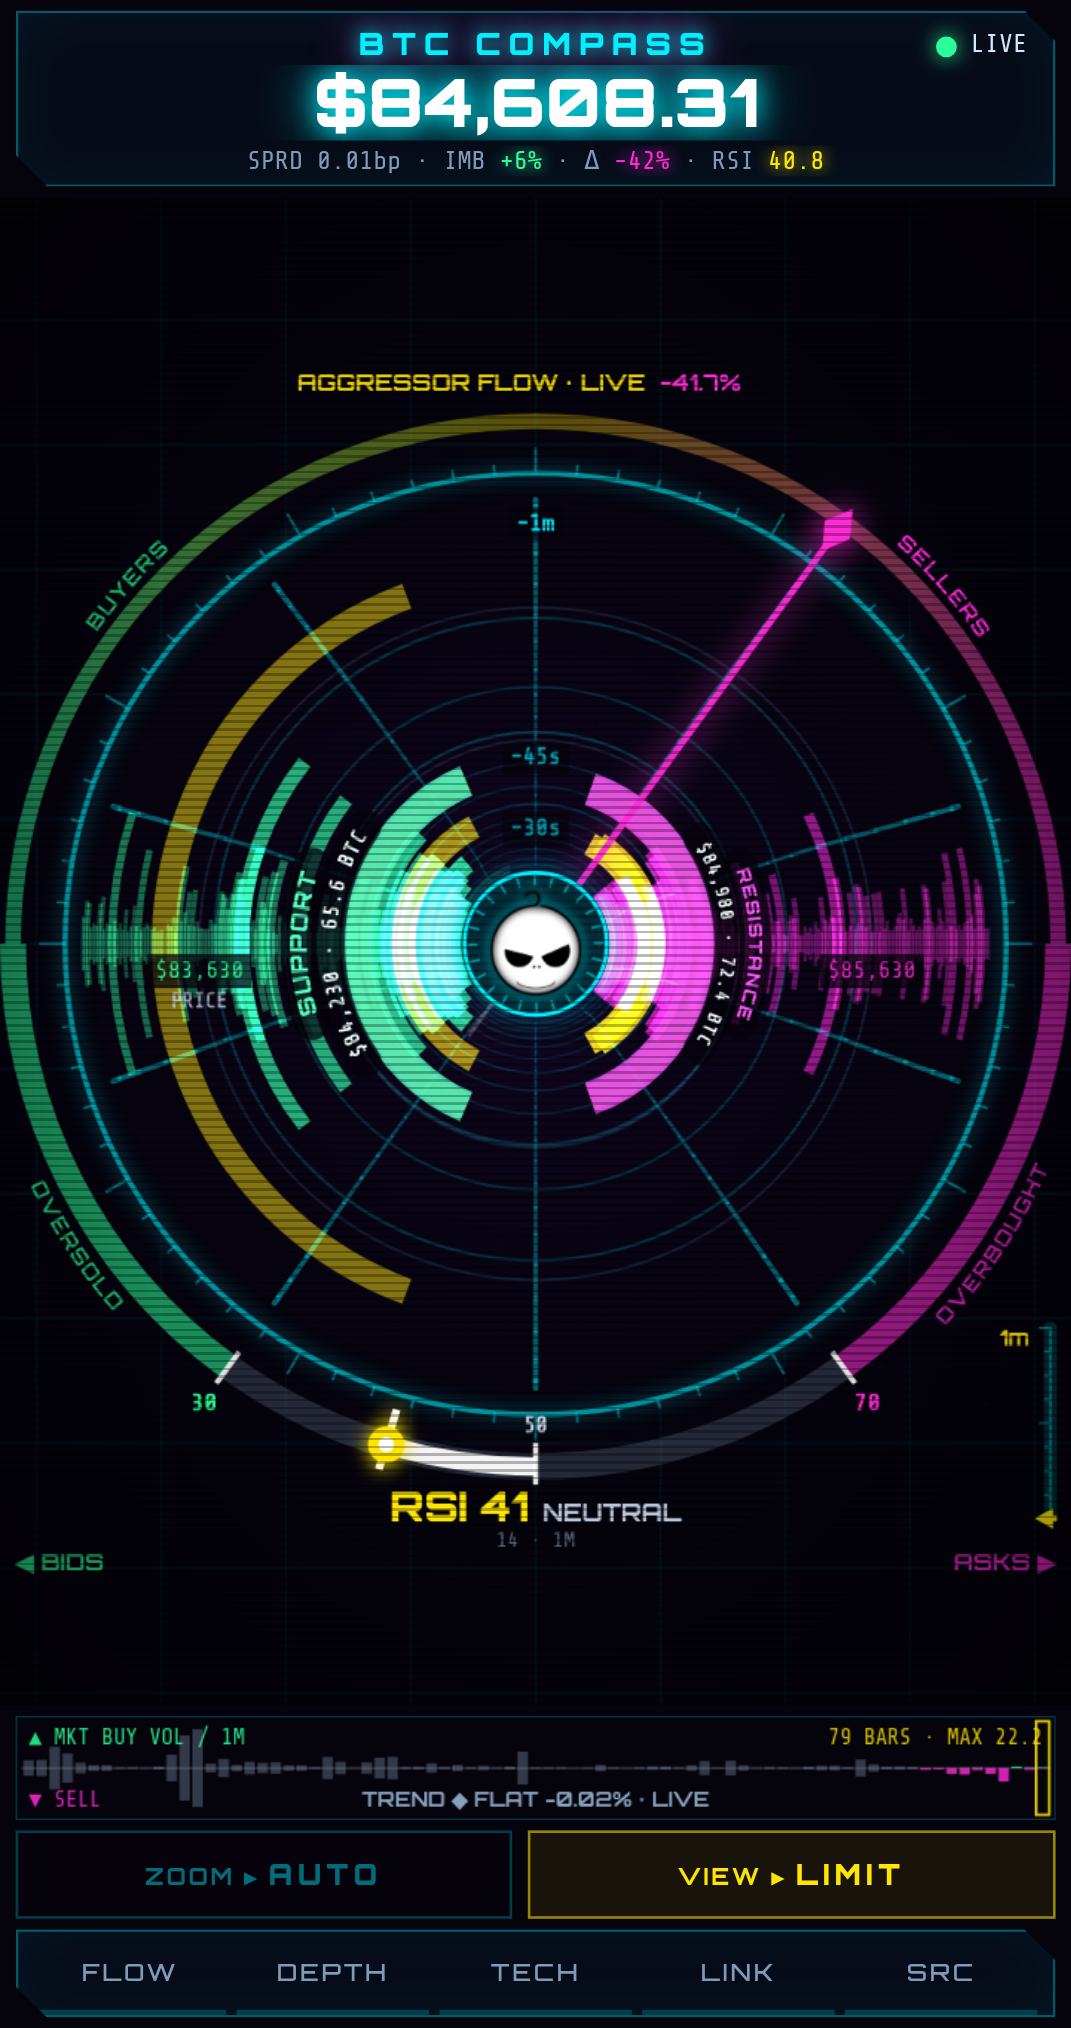
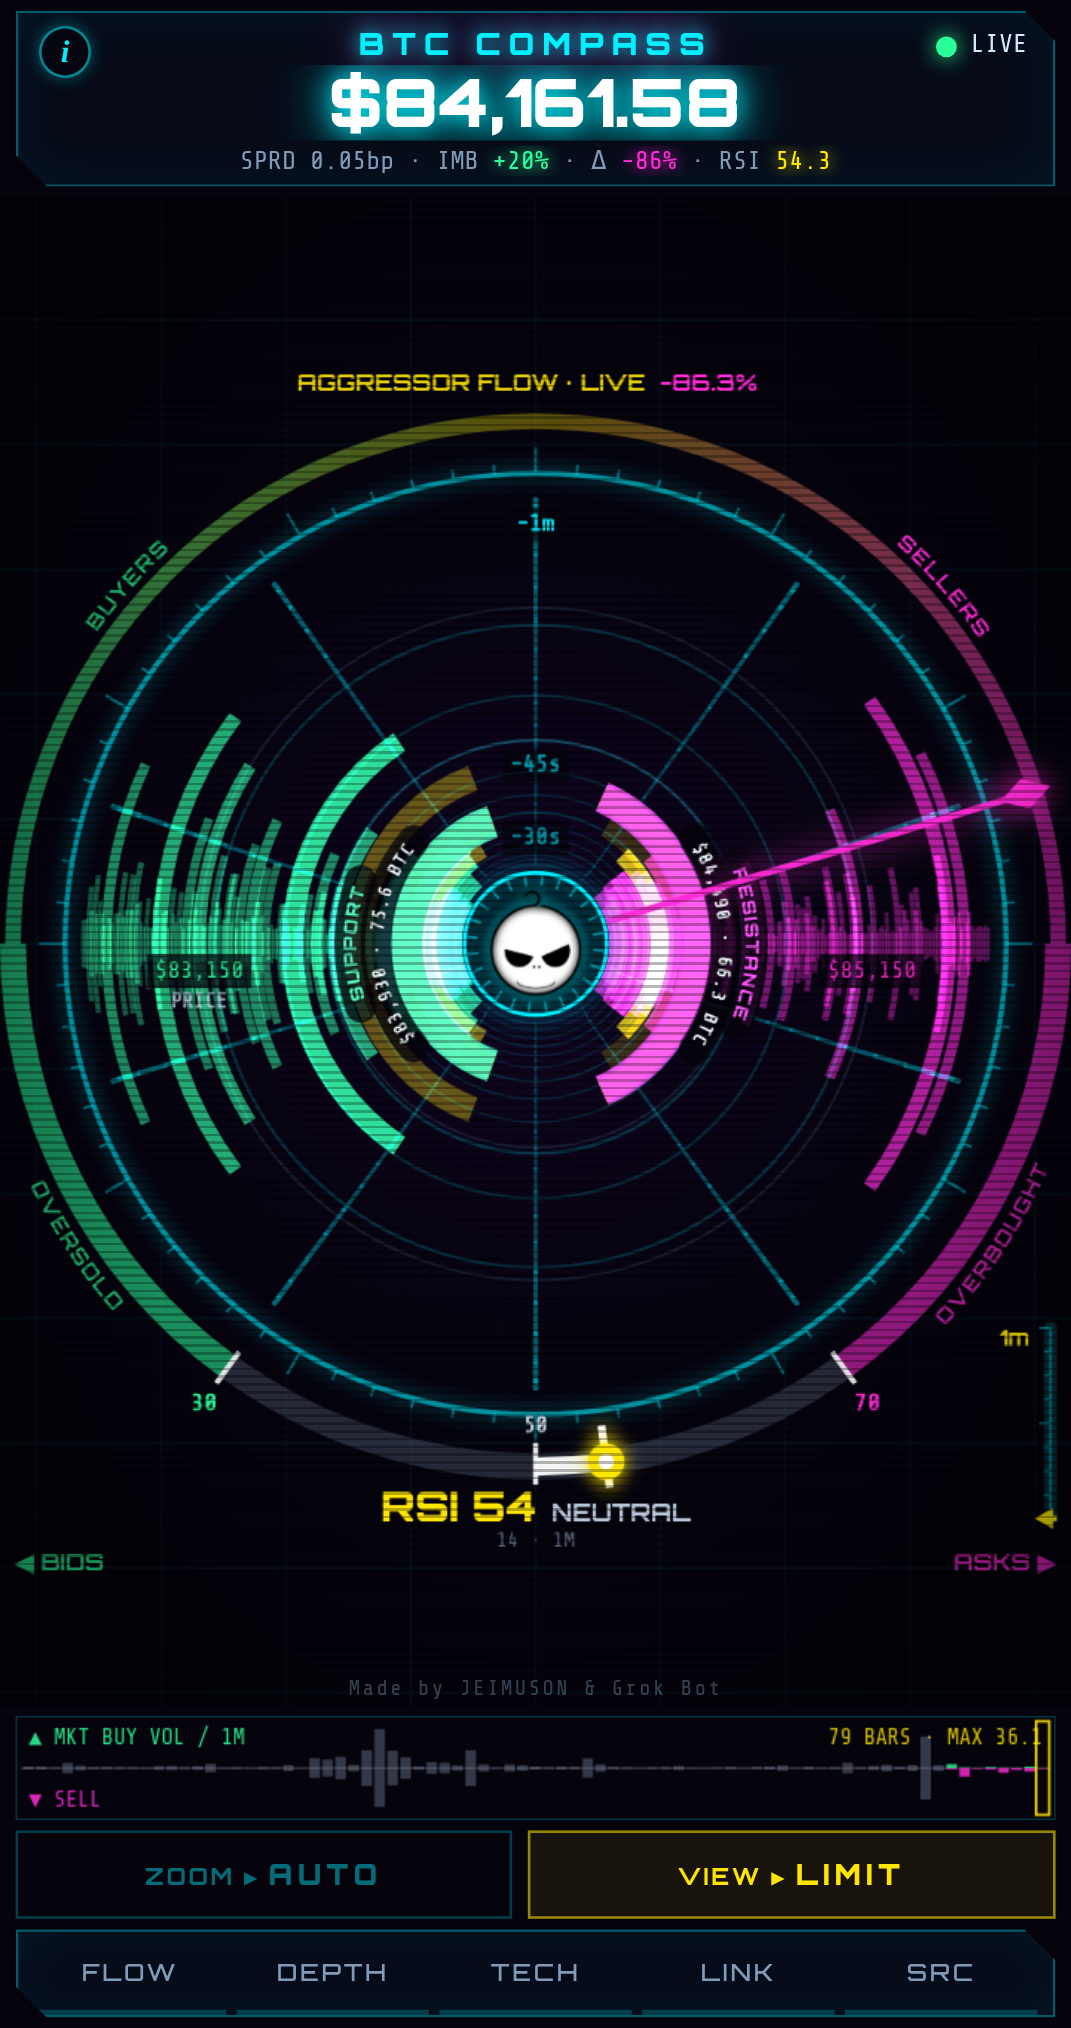
Info panel + credit; MARKET AUTO retune: 45s baseline, 60s dead-slow, price-aware tightening (build 20261002-1520)

diff --git a/index.html b/index.html
@@ -3,7 +3,7 @@
 <head>
 <meta charset="utf-8">
 <meta http-equiv="Cache-Control" content="no-cache, no-store, must-revalidate"><meta http-equiv="Pragma" content="no-cache"><meta http-equiv="Expires" content="0">
-<script>window.OFC_BUILD='20261002-1424';(function(){try{if(!/^https?:/.test(location.protocol))return;fetch(location.pathname+'?_='+Date.now(),{cache:'no-store'}).then(r=>r.text()).then(t=>{const m=t.match(/OFC_BUILD='([^']+)'/);if(m&&m[1]!==window.OFC_BUILD&&sessionStorage.getItem('ofcB')!==m[1]){sessionStorage.setItem('ofcB',m[1]);location.replace(location.pathname+'?v='+m[1]+location.hash);}}).catch(()=>{});}catch(e){}})();</script>
+<script>window.OFC_BUILD='20261002-1520';(function(){try{if(!/^https?:/.test(location.protocol))return;fetch(location.pathname+'?_='+Date.now(),{cache:'no-store'}).then(r=>r.text()).then(t=>{const m=t.match(/OFC_BUILD='([^']+)'/);if(m&&m[1]!==window.OFC_BUILD&&sessionStorage.getItem('ofcB')!==m[1]){sessionStorage.setItem('ofcB',m[1]);location.replace(location.pathname+'?v='+m[1]+location.hash);}}).catch(()=>{});}catch(e){}})();</script>
 <meta name="viewport" content="width=device-width,initial-scale=1,viewport-fit=cover,user-scalable=no">
 <meta name="theme-color" content="#05030c">
 <meta name="color-scheme" content="dark">
@@ -133,14 +133,56 @@ body.hublogo #top .logo{display:none}   /* mobile: logo lives in the compass hub
  #pages h3{margin-right:0}
  .bar{margin:2px 0 3px}
 }
+#infoBtn{position:absolute;left:8px;top:5px;width:20px;height:20px;padding:0;border-radius:50%;background:rgba(5,3,12,.6);border:1px solid rgba(0,240,255,.55);color:var(--cy);font:italic 700 12px/18px Georgia,serif;text-align:center;cursor:pointer;z-index:2;box-shadow:0 0 6px rgba(0,240,255,.35)}
+#infoBtn:hover,#infoBtn:focus-visible{color:#fff;border-color:var(--yl);box-shadow:0 0 10px rgba(255,230,0,.5);outline:none}
+#info{display:none;position:fixed;inset:0;z-index:60;background:rgba(2,1,8,.72);align-items:center;justify-content:center;padding:calc(var(--st) + 12px) 12px calc(var(--sb) + 12px)}
+#info.on{display:flex}
+#infoBox{position:relative;width:min(560px,100%);max-height:100%;overflow-y:auto;-webkit-overflow-scrolling:touch;overscroll-behavior:contain;background:rgba(8,14,28,.97);padding:14px 16px 12px;font-size:13px;line-height:1.45;color:#cfe9ff;-webkit-user-select:text;user-select:text;touch-action:pan-y}
+#infoBox h2{font-family:Orbitron,sans-serif;font-size:12px;letter-spacing:3px;color:var(--cy);text-shadow:0 0 8px var(--cy);margin:0 40px 8px 0}
+#infoBox h3{font-size:10px;margin:10px 0 4px}
+#infoBox ul{list-style:none}
+#infoBox li{position:relative;padding-left:12px;margin:2px 0}
+#infoBox li:before{content:'›';position:absolute;left:0;color:var(--cy)}
+#infoBox b{color:#fff;font-weight:700}#infoBox b.gr{color:var(--gr)}#infoBox b.rd{color:var(--rd)}
+#infoX{position:absolute;top:8px;right:10px;width:34px;height:24px;background:transparent;border:1px solid rgba(0,240,255,.45);color:var(--cy);font-size:14px;cursor:pointer}
+.infoCred{font-family:Orbitron,sans-serif;font-size:10px;letter-spacing:2px;color:var(--cy);text-align:center;margin-top:12px;text-shadow:0 0 6px rgba(0,240,255,.6)}
+#credit{position:absolute;left:50%;bottom:2px;transform:translateX(-50%);z-index:9;pointer-events:none;white-space:nowrap;font-size:8px;letter-spacing:1px;color:rgba(160,200,230,.32)}
+@media (min-aspect-ratio:1/1){#credit{left:6px;transform:none;bottom:3px;font-size:9px}}
+.infoFoot{font-size:10px;color:#5f7a95;text-align:center;margin-top:10px}
+@media (min-aspect-ratio:1/1) and (min-width:900px) and (min-height:700px){#infoBox{font-size:15px;width:min(640px,100%);padding:20px 24px 16px}#infoBox h2{font-size:14px}#infoBox h3{font-size:12px}}
 #glitch{position:fixed;inset:0;z-index:7;pointer-events:none;opacity:0}
 </style>
 </head>
 <body>
+<div id="info" role="dialog" aria-modal="true" aria-labelledby="infoT"><div id="infoBox" class="panel">
+ <button id="infoX" aria-label="close">✕</button>
+ <h2 id="infoT">// WHAT YOU'RE SEEING</h2>
+ <h3>MARKET VIEW · LIVE TRADES</h3>
+ <ul><li>Every trade lands on a <b>spiral</b>: newest on the outer ring, older ones wind into the center.</li>
+ <li>One lap = the time window (15–60s, shown on the zoom bar).</li>
+ <li>Trail swings <b>out</b> = price up, <b>in</b> = price down.</li>
+ <li><b class="gr">Green</b> = buyers, <b class="rd">red</b> = sellers. Thicker trail = more volume.</li>
+ <li><b>Flares</b> mark the spots with the heaviest trading.</li></ul>
+ <h3>LIMIT VIEW · ORDER-BOOK WALLS</h3>
+ <ul><li>Arcs are <b>walls</b> of waiting orders: <b class="gr">buyers left</b>, <b class="rd">sellers right</b>.</li>
+ <li>Distance from the middle = distance from the current price.</li>
+ <li>Bigger, brighter arc = bigger wall.</li>
+ <li>New walls start at the center and drift outward over time. A wall that stays is <b>holding</b>; one that vanishes was <b>pulled or eaten</b>.</li>
+ <li><b class="gr">SUPPORT</b> / <b class="rd">RESISTANCE</b> = the strongest nearby wall on each side.</li></ul>
+ <h3>AUTO ZOOM</h3>
+ <ul><li><b>MARKET:</b> normal traffic shows ~45s, dead-slow up to 60s. Price moves tighten it; volume bursts snap to a 15s vortex.</li>
+ <li><b>LIMIT:</b> quiet = 15s; heavy trading zooms out to 1m so you see walls get hit.</li>
+ <li><b>AUTO off</b> = full zoom out; then zoom by pinch, wheel or the zoom bar.</li></ul>
+ <h3>ALSO</h3>
+ <ul><li><b>RSI arc</b> (bottom): momentum. Left = oversold, right = overbought.</li>
+ <li><b>SRC</b>: venues feeding the book. Pick ALL or one exchange.</li></ul>
+ <div class="infoCred">Made by JEIMUSON &amp; Grok Bot</div>
+ <div class="infoFoot">tap outside, ✕ or Esc to close</div>
+</div></div>
 <div id="app">
-<div id="colA"><div id="stage"><canvas id="cv"></canvas><div id="vig"></div><div id="scan"></div><canvas id="lcv"></canvas></div><canvas id="vcv"></canvas></div>
+<div id="colA"><div id="stage"><canvas id="cv"></canvas><div id="vig"></div><div id="scan"></div><canvas id="lcv"></canvas><div id="credit" aria-hidden="true">Made by JEIMUSON &amp; Grok Bot</div></div><canvas id="vcv"></canvas></div>
 <div id="colB">
-<div class="panel" id="top">
+<div class="panel" id="top"><button id="infoBtn" aria-label="what am I looking at?" title="what am I looking at?">i</button>
  <div class="l1"><img class="logo" src="logo-64.png" srcset="logo-64.png 1x, logo-128.png 2x, logo.png 3x" alt="" width="22" height="22"><div class="t1">BTC&nbsp;COMPASS</div><div class="conn" id="conn"><span class="dot" style="background:#555"></span>INIT</div></div>
  <div class="lp"><div class="big" id="mid">—</div></div>
  <div class="l2">SPRD <span id="spread">—</span> · IMB <span id="imb">—</span> · Δ <span id="dlt">—</span> · RSI <span id="rsiTop">—</span></div>
@@ -369,6 +411,10 @@ let burst={on:false,until:0,rel:0,r3:0,base:0,usd3:0};
 // LIMIT + AUTO (opposite of MARKET): quiet tape -> 15 s depth; heavier traffic vs the 60 s baseline -> deeper, toward 1 m; burst -> full 1 m.
 // rho = 3 s USD rate / 60 s baseline: rho<=1 -> 15 s, rho=2 -> 30 s, rho>=3 (=BURST_X) or burst -> 60 s (log scale). Deeper targets hold 5 s (burst: +6.5 s burst hold) before easing back in.
 let LT={w:15,hold:0,rho:0};
+// MARKET + AUTO window: volume sets the baseline (normal -> 45 s, dead-slow -> 60 s); price moves tighten it toward 15 s; a volume burst snaps to 15 s.
+//  q  = 60 s USD rate / 10 min EMA of that rate:   q>=0.6 -> 45 s,  q<=0.25 -> 60 s (log-interp between)
+//  z  = max |mid move| over last 10 s / 5 min EMA of that same measure (typical 10 s move):  z<=1.5 -> no change, z>=4 -> 15 s (log-interp)
+let MT={w:45,hold:0,q:1,z:0,vb:0,sg:0,t0:0,mp:[]};
 setInterval(()=>{if(!trades.length)return;const n=Date.now();let u3=0,u60=0,old=n;
   for(let i=trades.length-1;i>=0;i--){const t=trades[i],ag=n-t.t;if(ag>63000)break;const u=t.qty*t.px;if(ag<=3000)u3+=u;else u60+=u;old=Math.min(old,t.t);}
   const bspan=Math.min(60,(n-old)/1000-3), base=bspan>=20?u60/bspan:0, r3=u3/3;
@@ -376,6 +422,16 @@ setInterval(()=>{if(!trades.length)return;const n=Date.now();let u3=0,u60=0,old=
   if(base>0&&r3>=BURST_X*base&&u3>=BURST_MIN_USD)burst.until=n+BURST_HOLD;
   {const rho=base>0&&u3>=BURST_MIN_USD*0.2?r3/base:0,k=Math.max(0,Math.min(1,(rho-1)/(BURST_X-1)));LT.rho=rho;
     const wt=n<burst.until?LWMAX:WMIN*Math.pow(LWMAX/WMIN,k);if(wt>=LT.w){LT.w=wt;LT.hold=n+5000;}else if(n>LT.hold)LT.w=wt;}
+  {if(!MT.t0)MT.t0=n;const el=(n-MT.t0)/1000,cl=x=>Math.max(0,Math.min(1,x));
+    if(mid){MT.mp.push([n,mid]);while(MT.mp.length&&n-MT.mp[0][0]>10000)MT.mp.shift();}
+    let mv=0;for(const e of MT.mp)mv=Math.max(mv,Math.abs(mid-e[1]));
+    const span10=MT.mp.length?(n-MT.mp[0][0])/1000:0, fl=(mid||1)*0.00002;
+    if(span10>=8){const a=1-Math.exp(-0.25/Math.min(300,10+el));MT.sg=MT.sg?MT.sg+(Math.max(mv,fl)-MT.sg)*a:Math.max(mv,fl);}
+    if(base>0){const a=1-Math.exp(-0.25/Math.min(600,20+el));MT.vb=MT.vb?MT.vb+(base-MT.vb)*a:base;}
+    MT.q=bspan>=20&&MT.vb>0?base/MT.vb:1; MT.z=MT.sg>0&&span10>=8?mv/MT.sg:0;
+    const kv=cl((MT.q-0.25)/0.35), wv=MWMAX*Math.pow(45/MWMAX,kv), kp=cl((MT.z-1.5)/2.5);
+    const wt=n<burst.until?BURST_WIN:wv*Math.pow(WMIN/wv,kp);
+    if(wt<=MT.w){MT.w=wt;MT.hold=n+3000;}else if(n>MT.hold)MT.w=wt;}
   const was=burst.on;burst.on=n<burst.until;if(was&&!burst.on)burst.rel=n;},250);
 
 // ---------------- trades ----------------
@@ -1508,9 +1564,7 @@ function frame(){
   if(mid&&sortedB.length>5&&sortedA.length>5){
     {const db=mid-sortedB[Math.floor(sortedB.length*0.7)][0], da=sortedA[Math.floor(sortedA.length*0.7)][0]-mid;let f;
       if(VIEW==='market'){ // fit the recent trade price range so bubbles spread across the dial
-        const dev=Wn=>{let mx=0;for(let a=0;a<=Math.min(trail.length-1,Wn);a++)if(trail[a].Ps!=null)mx=Math.max(mx,Math.abs(trail[a].Ps-mid));return mx;};
-        const full=dev(MWMAX);let Wsel=MWMAX;if(full>mid*0.00003)for(const Wn of [15,20,30,45,60]){if(dev(Wn)>=0.7*full){Wsel=Wn;break;}}
-        if(burst.on)Wsel=BURST_WIN;   // volume burst -> tight vortex
+        const Wsel=burst.on?BURST_WIN:MT.w;   // volume burst -> tight vortex; else volume baseline (45/60 s) tightened by price moves (see MT)
         f=zR(Math.log(MWMAX/Wsel)/Math.log(MWMAX/WMIN));
       }else{f=Math.max(db,da)/mid;}
       f=Math.min(ZMAX,Math.max(ZMIN,f)); fitFrac=f;
@@ -1554,8 +1608,17 @@ function frame(){
 connect();seedREST();
 requestAnimationFrame(frame);
 document.addEventListener('visibilitychange',()=>{if(!document.hidden&&(!ws||ws.readyState>1)){backoff=1000;connect();}});
-window.__ofc={get lt(){return {w:+LT.w.toFixed(1),rho:+LT.rho.toFixed(2),lwin:+LWIN.toFixed(1),burst:burst.on}},get keyWalls(){return VIEW==='limit'?{...KEYW,nSig:{bid:topWalls.bid.length,ask:topWalls.ask.length},marks:PLBL.map(q=>q.txt)}:null},simFlat(){SIM={on:true,base:mid,t0:0,dir:0,amp:0,ramp:1};},simMove(dir,frac,ramp){SIM.t0=Date.now();SIM.dir=dir;SIM.amp=frac*SIM.base;SIM.ramp=ramp;},get resp(){const v=proj(HIST_SEC),m=proj(HIST_SEC*0.4);return {tw:+(TWIST_MAX*VSP.w*180/Math.PI).toFixed(2),vp:+(v.y-CY).toFixed(1),vm:+(m.y-CY).toFixed(1),o3:+((window.__ofcR||{}).o3||0).toFixed(1),o8:+((window.__ofcR||{}).o8||0).toFixed(1),mw:+MWIN.toFixed(1),dr:dispRange,pr:pathRef}},get bp(){return BP.length},autoOff(){pillT=0;if(rangeAuto)pillTap();},get dr(){return dispRange},get hubLogo(){return !WIDE&&LOGO.complete&&LOGO.naturalWidth>0},get hdrLogo(){const e=document.querySelector('#top .logo');return !!e&&getComputedStyle(e).display!=='none'},get flares(){return VIEW==='market'?[...FLR.entries()].map(([k,F])=>{const p=F.dx!=null?{x:F.dx,y:F.dy}:null;return {k,T:F.T,tT:trailT,st:trailStep,w:+F.w.toFixed(2),on:!!F.on,side:F.c===COL.bid?'bid':'ask',x:p?Math.round(p.x):null,y:p?Math.round(p.y):null};}):null},winTo(S){intro=null;setAuto(false);syncZA();let lo=0,hi=1;const f=u=>mWinOf(zR(u));const dec=f(0)>f(1);for(let i=0;i<40;i++){const m=(lo+hi)/2;if((f(m)>S)===dec)lo=m;else hi=m;}rangeFrac=zR((lo+hi)/2);return f((lo+hi)/2);},get vring(){if(VIEW!=='market')return null;const p=proj(HIST_SEC);return {full:+(RMAX*p.s).toFixed(1),r:+(RMAX*p.s).toFixed(1),x:Math.round(p.x),y:Math.round(p.y),R0:Math.round(R0)}},get twist(){return VIEW==='market'?+(TWIST_MAX*VSP.w*180/Math.PI).toFixed(1):0},get spin(){return {w:+VSP.w.toFixed(3),ph:+VSP.ph.toFixed(3)}},zManual(){intro=null;setAuto(false);syncZA();},get burst(){return {...burst,now:Date.now()}},simBurst(usd){const px=trades.length?trades[trades.length-1].px:mid,n=Date.now();for(let k=0;k<8;k++)trades.push({t:n-(7-k)*300,side:k%2?'sell':'buy',qty:usd/8/px,px,v:'kraken'});trailDirty=true;},get auto(){return rangeAuto},zAuto(){intro=null;setAuto(true);syncZA();},zIn(){intro=null;setAuto(false);rangeFrac=zR(1);syncZA();},get mwin(){return +MWIN.toFixed(1)},get lwin(){return +LWIN.toFixed(1)},get prange(){return PRANGE},get disp(){return dispRange},get plbl(){return PLBL.map(q=>q.txt)},get hubTxt(){return mid?hubTxt():null},get head(){return {x:Math.round(TRHEAD.x),y:Math.round(TRHEAD.y),CX,CY,R0:Math.round(R0),RMAX:Math.round(RMAX)}},get logo(){const g=logoGeom();return g&&{x:Math.round(g.x),y:Math.round(g.y),S:g.S,CX,CY,RMAX,W,H,Z:zbarGeom()}},get ven(){return Object.fromEntries(Object.entries(VEN).map(([k,v])=>[k,{st:v.st,share:+v.share.toFixed(3),books:BOOKS.filter(B=>B.v===k).map(B=>({k:B.k,ready:B.ready,n:B.b.size+B.a.size,ck:B.ckOk,ckBad:B.ckBad,resyncs:B.resyncs}))}]))},get src(){return SRC},setSource,get comb(){return {ready:BREADY,mid,bestBid,bestAsk,nb:sortedB.length,na:sortedA.length}},get raw(){return RAW.length},get flow(){const f=flow(30);return {b:Math.round(f.b),s:Math.round(f.s),r:+f.r.toFixed(3)}},get trendW(){return trendWin()},get win(){return winSec},get heatN(){return Object.fromEntries(Object.entries(HEATS).map(([w,H])=>[w,H.m.size]))},get intro(){return intro},book,get mid(){return mid},get ck(){return {ckOk,ckBad,ckLast}},get trades(){return tradeCount},get bubbles(){return bubbles.length},get hist(){return history.length},get ind(){return ind},get candles(){return candles.size},get dir(){return INBOUND?'in':'out'},get view(){return VIEW},get layout(){return {W,H,CX,CY,RMAX,R0,WIDE}},get tunnel(){const far=proj(HIST_SEC);return {FOCAL,farScale:far.s,farY:far.y-CY,dispRange,fitFrac,rangeAuto,RMAX}},zoom(f){setAuto(false);rangeFrac=Math.min(0.08,Math.max(0.0005,rangeFrac*f));},autoZoom(){setAuto(true);},get autoOn(){return rangeAuto},get zgeom(){return zbarGeom()},get conn(){return connState},get fps(){return FPS},get q(){return Q},get rc(){return reconnects},forceDrop(){ws&&ws.close();}};
+window.__ofc={get mt(){return {w:+MT.w.toFixed(1),q:+MT.q.toFixed(2),z:+MT.z.toFixed(2),sg:MT.sg,burst:burst.on}},get lt(){return {w:+LT.w.toFixed(1),rho:+LT.rho.toFixed(2),lwin:+LWIN.toFixed(1),burst:burst.on}},get keyWalls(){return VIEW==='limit'?{...KEYW,nSig:{bid:topWalls.bid.length,ask:topWalls.ask.length},marks:PLBL.map(q=>q.txt)}:null},simFlat(){SIM={on:true,base:mid,t0:0,dir:0,amp:0,ramp:1};},simMove(dir,frac,ramp){SIM.t0=Date.now();SIM.dir=dir;SIM.amp=frac*SIM.base;SIM.ramp=ramp;},get resp(){const v=proj(HIST_SEC),m=proj(HIST_SEC*0.4);return {tw:+(TWIST_MAX*VSP.w*180/Math.PI).toFixed(2),vp:+(v.y-CY).toFixed(1),vm:+(m.y-CY).toFixed(1),o3:+((window.__ofcR||{}).o3||0).toFixed(1),o8:+((window.__ofcR||{}).o8||0).toFixed(1),mw:+MWIN.toFixed(1),dr:dispRange,pr:pathRef}},get bp(){return BP.length},autoOff(){pillT=0;if(rangeAuto)pillTap();},get dr(){return dispRange},get hubLogo(){return !WIDE&&LOGO.complete&&LOGO.naturalWidth>0},get hdrLogo(){const e=document.querySelector('#top .logo');return !!e&&getComputedStyle(e).display!=='none'},get flares(){return VIEW==='market'?[...FLR.entries()].map(([k,F])=>{const p=F.dx!=null?{x:F.dx,y:F.dy}:null;return {k,T:F.T,tT:trailT,st:trailStep,w:+F.w.toFixed(2),on:!!F.on,side:F.c===COL.bid?'bid':'ask',x:p?Math.round(p.x):null,y:p?Math.round(p.y):null};}):null},winTo(S){intro=null;setAuto(false);syncZA();let lo=0,hi=1;const f=u=>mWinOf(zR(u));const dec=f(0)>f(1);for(let i=0;i<40;i++){const m=(lo+hi)/2;if((f(m)>S)===dec)lo=m;else hi=m;}rangeFrac=zR((lo+hi)/2);return f((lo+hi)/2);},get vring(){if(VIEW!=='market')return null;const p=proj(HIST_SEC);return {full:+(RMAX*p.s).toFixed(1),r:+(RMAX*p.s).toFixed(1),x:Math.round(p.x),y:Math.round(p.y),R0:Math.round(R0)}},get twist(){return VIEW==='market'?+(TWIST_MAX*VSP.w*180/Math.PI).toFixed(1):0},get spin(){return {w:+VSP.w.toFixed(3),ph:+VSP.ph.toFixed(3)}},zManual(){intro=null;setAuto(false);syncZA();},get burst(){return {...burst,now:Date.now()}},simBurst(usd){const px=trades.length?trades[trades.length-1].px:mid,n=Date.now();for(let k=0;k<8;k++)trades.push({t:n-(7-k)*300,side:k%2?'sell':'buy',qty:usd/8/px,px,v:'kraken'});trailDirty=true;},get auto(){return rangeAuto},zAuto(){intro=null;setAuto(true);syncZA();},zIn(){intro=null;setAuto(false);rangeFrac=zR(1);syncZA();},get mwin(){return +MWIN.toFixed(1)},get lwin(){return +LWIN.toFixed(1)},get prange(){return PRANGE},get disp(){return dispRange},get plbl(){return PLBL.map(q=>q.txt)},get hubTxt(){return mid?hubTxt():null},get head(){return {x:Math.round(TRHEAD.x),y:Math.round(TRHEAD.y),CX,CY,R0:Math.round(R0),RMAX:Math.round(RMAX)}},get logo(){const g=logoGeom();return g&&{x:Math.round(g.x),y:Math.round(g.y),S:g.S,CX,CY,RMAX,W,H,Z:zbarGeom()}},get ven(){return Object.fromEntries(Object.entries(VEN).map(([k,v])=>[k,{st:v.st,share:+v.share.toFixed(3),books:BOOKS.filter(B=>B.v===k).map(B=>({k:B.k,ready:B.ready,n:B.b.size+B.a.size,ck:B.ckOk,ckBad:B.ckBad,resyncs:B.resyncs}))}]))},get src(){return SRC},setSource,get comb(){return {ready:BREADY,mid,bestBid,bestAsk,nb:sortedB.length,na:sortedA.length}},get raw(){return RAW.length},get flow(){const f=flow(30);return {b:Math.round(f.b),s:Math.round(f.s),r:+f.r.toFixed(3)}},get trendW(){return trendWin()},get win(){return winSec},get heatN(){return Object.fromEntries(Object.entries(HEATS).map(([w,H])=>[w,H.m.size]))},get intro(){return intro},book,get mid(){return mid},get ck(){return {ckOk,ckBad,ckLast}},get trades(){return tradeCount},get bubbles(){return bubbles.length},get hist(){return history.length},get ind(){return ind},get candles(){return candles.size},get dir(){return INBOUND?'in':'out'},get view(){return VIEW},get layout(){return {W,H,CX,CY,RMAX,R0,WIDE}},get tunnel(){const far=proj(HIST_SEC);return {FOCAL,farScale:far.s,farY:far.y-CY,dispRange,fitFrac,rangeAuto,RMAX}},zoom(f){setAuto(false);rangeFrac=Math.min(0.08,Math.max(0.0005,rangeFrac*f));},autoZoom(){setAuto(true);},get autoOn(){return rangeAuto},get zgeom(){return zbarGeom()},get conn(){return connState},get fps(){return FPS},get q(){return Q},get rc(){return reconnects},forceDrop(){ws&&ws.close();}};
 })();
+// ---------------- INFO overlay: what am I looking at? (✕ / tap outside / Esc) ----------------
+(function(){const I=document.getElementById('info'),B=document.getElementById('infoBtn');if(!I||!B)return;
+  const open=()=>{I.classList.add('on');document.getElementById('infoX').focus({preventScroll:true});},close=()=>{I.classList.remove('on');B.focus({preventScroll:true});};
+  B.addEventListener('click',e=>{e.stopPropagation();open();});
+  document.getElementById('infoX').addEventListener('click',e=>{e.stopPropagation();close();});
+  I.addEventListener('click',e=>{if(e.target===I)close();e.stopPropagation();});
+  ['touchstart','touchmove','touchend','wheel','mousedown'].forEach(ev=>I.addEventListener(ev,e=>e.stopPropagation(),{passive:true}));
+  addEventListener('keydown',e=>{if(e.key==='Escape'&&I.classList.contains('on'))close();});
+  window.__info={open,close,get on(){return I.classList.contains('on')}};})();
 </script>
 </body>
 </html>
